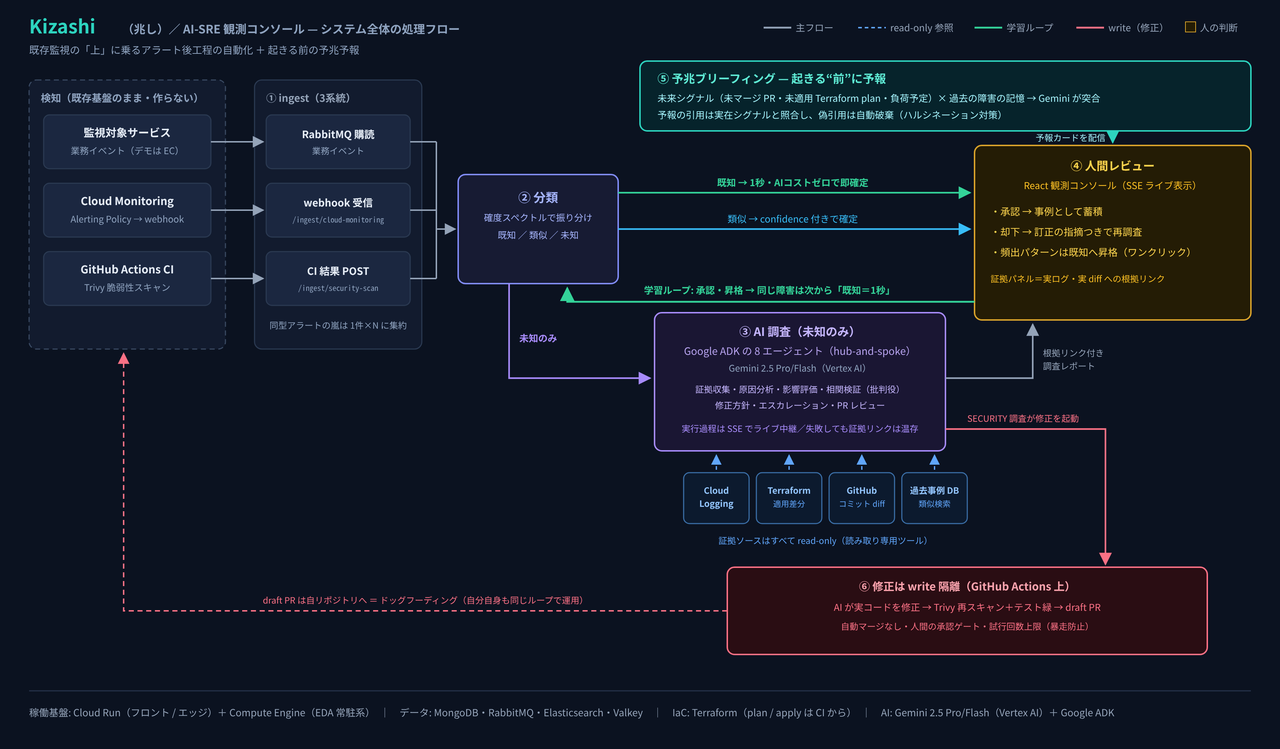
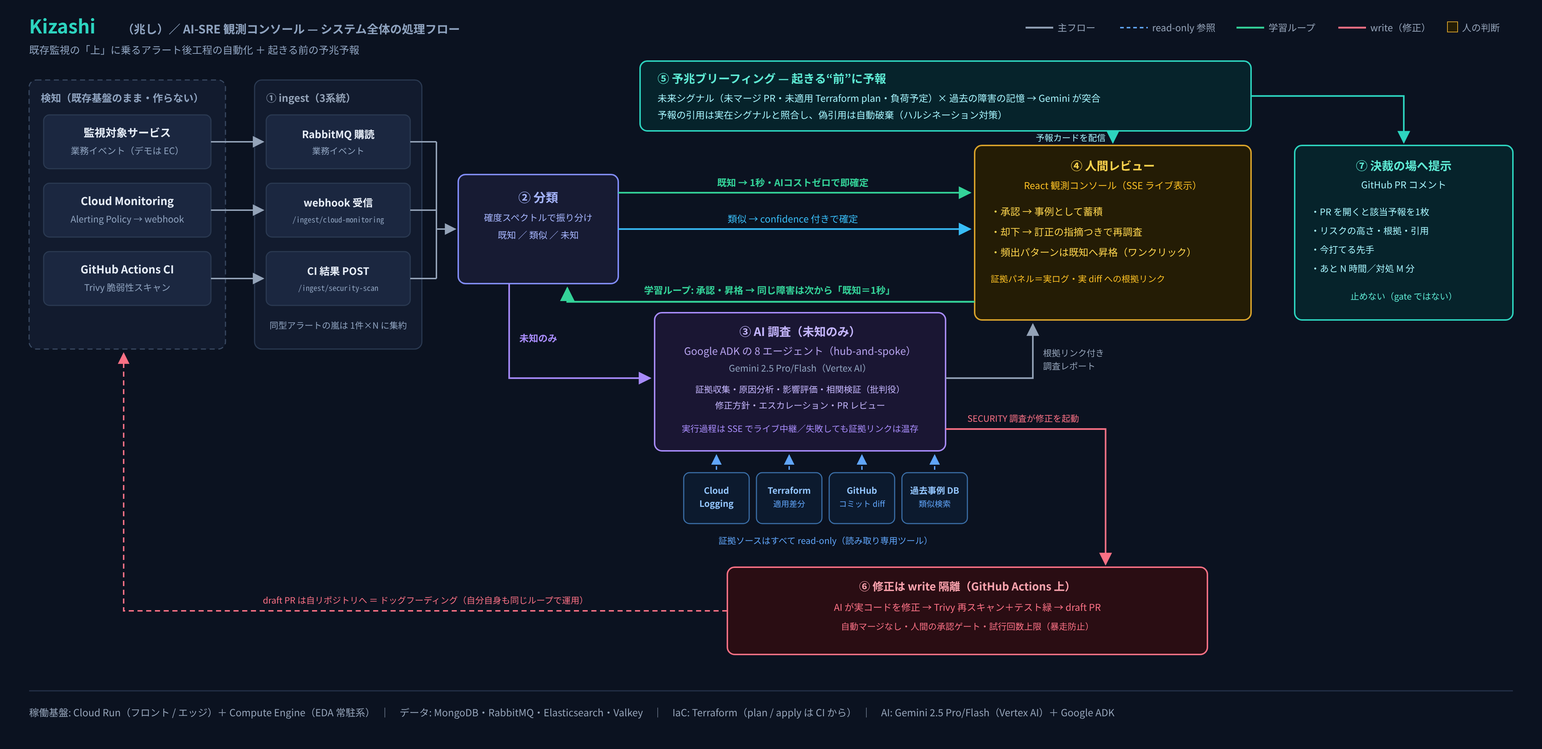
doc: v1.5/v2 の実装をドキュメントの正へ反映する（E7・ADR-34・測定）
決裁の場への提示（E7）が README にも architecture.md にも無く、
「前例が無ければ LOW〜MEDIUM に留まる」は E6-3 の実測で否定された
ままだった。図（architecture.png / deploy-diagram.png）も E7 を
描いていなかったので、SVG 原本を編集して再レンダリングした。

- architecture.md §10.9 新設（PR コメント・該当判定2本立て・非 gate 規律）
- §10 の level に関する記述を実測（ローカル n=21）へ訂正
- §10.5/§10.6 を ADR-34（決裁の読み順・時間軸・日本語ラベル）へ同期
- §6.5 に ⑤ 自己予報、§6.1 の SA を ×4（AI 修正専用 SA）へ
- §7 に apps/ci/、テスト件数を実測へ（unit 1,298 / 178ファイル）
- §11 に未実装（決裁台帳・提示頻度の上限・先手後の事後検証）を明記
- 図に ⑦ 決裁の場へ提示を追加（キャンバスを広げ既存要素は不動）
- ADR 索引のリンク切れ3件（ADR-14 / ADR-26 / ADR-34）を修正

diff --git a/docs/architecture.md b/docs/architecture.md
@@ -1,4 +1,4 @@
-# Kizashi（兆し）アーキテクチャ（コード準拠・2026-07-11 時点）
+# Kizashi（兆し）アーキテクチャ（コード準拠・2026-08-17 時点）
 
 > **本書はコードを正とした現状スナップショット**。設計の経緯・理由は [docs/steps/](steps/)（step 系設計書）と [docs/decisions/](decisions/) を参照。ここに書かれていることはすべて実装済み（未実装は明示）。
 
@@ -41,9 +41,11 @@ flowchart LR
   end
 
   UI["React 観測コンソール<br/>SSE リアルタイム・証拠パネル・承認"]
+  PRC["GitHub PR コメント（§10.9）<br/>決裁の場へ材料を届ける<br/>（止めない・gate ではない）"]
   REM["リメディエーション(write隔離)<br/>GitHub Actions 上で AI が実修正<br/>→テストゲート→draft PR(人間承認)"]
 
   FSIG --> FC --> UI
+  FC --> PRC
   SI -.記憶（MEMORY）.-> FC
   EC -->|DomainEvent| SUB
   CM -->|webhook| ICM
@@ -159,7 +161,7 @@ flowchart TD
 - 既知/未知でルートが変わる（既知は重い調査モジュールを通さない）。出口は自責→修正起案 / 他責→運用エスカレーションに分岐。
 - 失敗時も空にしない: runner 例外・パース不能の fallback レポートに**収集済み証拠リンクを温存**。パース不能時は rawSnippet をログに残し真因を追跡。
 - **空応答への構造的防御（finalizer 分離）**: gemini-2.5 系は思考トークンも `maxOutputTokens` を消費するため、証拠が競合する高推論シナリオ（例: 症状=メモリ枯渇 × Terraform 差分=接続上限縮小）では最終 JSON 合成ターンの思考が予算を食い切り **finishReason=MAX_TOKENS・0文字**になる故障モードがある（思考予算キャップは努力目標であり硬い壁ではない）。**恒久策として「統括」と「JSON 化」を別ターンに分離**した——エージェントループ終了後に、**ツールなし・思考予算0・`responseSchema`（制約付きデコード）強制の単発呼び出し**を1回だけ直列で足し、セッションで回収したサブエージェント出力群を JSON へ清書させる（`GeminiInvestigationFinalizer`）。ツールを持たないので `responseSchema` の併用制約に当たらず、思考が予算を取らないので空応答の機序自体が成立しない。**エージェント数は増えない**（グラフ外の直列ステップ・8体のまま）。清書がパースを通らなければコーディネーターの下書きへ黙って戻す（`finalizeInvestigationOutput`）ので分離前が下限。
-- **空応答への縮退リトライ（後段の受け皿）**: 上の finalizer は前段の防御であって置き換えではないため、縮退リトライは残す。1回目が空/パース不能/例外のとき、**思考予算だけ落とした同一グラフで1回だけ再実行**してから fallback に落とす（思考↓＝最終 JSON 用トークン保証↑と失敗機序に整合・sub-agent の予算は不変なので分析の質は保たれる・再実行は `ai_investigation_retrying` ログで観測可能・上限1回で prefetch(1) の占有を有界に保つ）。清書役自体が落ちた場合（Vertex 側の瞬断・タイムアウト）と、ADK 調査そのものが例外で死ぬ経路をここが拾う。決定の履歴は [ADR-26](decisions/ADR.md#adr-26-空応答fallbackは思考予算を落とした縮退リトライ1回で防御)。
+- **空応答への縮退リトライ（後段の受け皿）**: 上の finalizer は前段の防御であって置き換えではないため、縮退リトライは残す。1回目が空/パース不能/例外のとき、**思考予算だけ落とした同一グラフで1回だけ再実行**してから fallback に落とす（思考↓＝最終 JSON 用トークン保証↑と失敗機序に整合・sub-agent の予算は不変なので分析の質は保たれる・再実行は `ai_investigation_retrying` ログで観測可能・上限1回で prefetch(1) の占有を有界に保つ）。清書役自体が落ちた場合（Vertex 側の瞬断・タイムアウト）と、ADK 調査そのものが例外で死ぬ経路をここが拾う。決定の履歴は [ADR-26](decisions/ADR.md#adr-26-空応答-fallback-は思考予算を落とした縮退リトライ1回で防御)。
 - **fallback からの復帰導線（E3）**: fallback は行き止まりにしない。ドロワー/詳細ページの警告バナー直下に「再調査を実行」（既存 `POST /alerts/:id/reinvestigate` へ定型 operatorNote を添えてワンクリック結線・`FallbackRecoveryBanner`）、温存された証拠リンクは「収集済みの証拠リンク」として要約射影でも表示、一覧カードの「AI推定: 」空文字は「調査失敗・再調査可」の定型文に写像。
 - **働きの明細（G1）**: 調査完了時に UseCase が実測メトリクス（`InvestigationMetrics`＝elapsedMs＋証拠件数内訳: ログ/メトリクス/Terraform差分/コミット/類似事例）を `InvestigationReport.metrics`（optional・後方互換）へ deterministic に添付（ADK/単一Gemini 両経路で同形・LLM 出力ではない）。UI はレポート冒頭に「**92秒**で Cloud Logging・GitHub・類似事例DB を横断し、**証拠62件**を収集して原因を推定」の実測1行（要約射影）を出し、既知一致には「既知パターン一致＝**1秒未満・AI コストゼロ**で確定」の経済性対比を添える。表示は記録済みの事実のみ（「人間なら◯分」等の換算はしない）。
 - **報告書の視覚構造（E8・詳細ページ full 射影）**: 同じ実測メトリクスを**証拠フローダイアグラム**（流入源→AI 調査→結論の収束図・`EvidenceFlowDiagram`＋`evidenceFlowModel` 純関数）として図示し、G1 の実測1行は図ヘッダに吸収（同じ数字を二度出さない・描けない条件では1行へ劣化）。結論ノードに確信度ゲージ＋キャリブレーション注記を合流。冒頭は結論ファースト（AI推定パターン直下に自責/他責バッジ＋障害規模1行・推奨アクションを調査ステップより先に）。調査ステップは縦タイムライン（生エージェント名は台帳で人間語化・時刻は記録が無いため出さない＝順序のみ）。生ログ引用（算定根拠/添付証拠/判定根拠）は既定折りたたみ「n件」＋展開でソース種別レーン（観測データ/変更履歴/過去事例・`groupCitations`）。すべて記録済み実データからの表示射影＝backend 変更ゼロ。
@@ -254,7 +256,7 @@ flowchart LR
 | ------------ | ------------------------------------------------------------------------------------------------ | ----------------------------------------------------------------------------------- |
 | 機密         | **Secret Manager**（箱のみ tf 管理・平文 version は `gcloud` で別投入＝tf state 非搭載）         | 各コンテナへ環境注入。LLM コンテキストに載らない＝注入成功時も鍵は漏れない（§5.5）  |
 | CI 認証      | **Workload Identity Federation**（pool + provider・鍵レス）                                      | GitHub Actions → GCP を SA キー配布ゼロで認証。長期鍵の漏洩面を排除                 |
-| 権限         | **役割別サービスアカウント ×3**（CI デプロイ用 / Cloud Run 実行用 / GCE 実行用・最小権限）       | 実行系と CI 系を分離。プロセス誤動作時の横移動を限定（§5.5 最小権限・サービス分離） |
+| 権限         | **役割別サービスアカウント ×4**（CI デプロイ用 / **CI AI 修正用**（`roles/aiplatform.user` のみ）/ Cloud Run 実行用 / GCE 実行用・最小権限） | 実行系と CI 系を分離。さらに CI の中でもデプロイ権限と AI 修正ジョブを分ける＝**LLM が書いたコードを走らせるランナーにデプロイできる資格情報を置かない**（§5・§5.5） |
 | 状態管理     | **GCS**（tfstate 用＝partial backend config で tf 外に用意・deploy 資材用＝tf 管理）／state lock | plan/apply の tfstate 奪い合いを CI の `concurrency` で直列化（§6.5②）              |
 | 配信         | **Artifact Registry**（apps リポジトリに ec-backend / backoffice-backend イメージ）              | image build & push の格納先（§6.5①）                                                |
 | ネットワーク | VPC / subnet / **Serverless VPC Access Connector** / 静的 IP / firewall                          | Cloud Run（サーバレス）→ GCE 常駐系（RabbitMQ/Mongo 等）への疎通                    |
@@ -279,6 +281,7 @@ flowchart TB
     TF["terraform.yml<br/>plan(PR) / apply(main・承認ゲート)<br/>state lock 直列化済み"]
     TRIVY["app.yml: Trivy fs scan<br/>HIGH/CRITICAL 抽出→整形"]
     REM["ai-remediation.yml<br/>AI が実修正→テストゲート→draft PR"]
+    FPC["forecast-pr-comment.yml<br/>予報を PR コメントで提示<br/>（参照のみ・常に exit 0）"]
   end
 
   subgraph prod["本番（Cloud Run + GCE）＝ 監視エージェント稼働"]
@@ -291,6 +294,8 @@ flowchart TB
   SRC --> TRIVY -->|"POST /ingest/security-scan<br/>(実 ingest・シナリオ4 の実経路)"| AGENT
   AGENT -->|"SECURITY 調査 → repository_dispatch"| REM
   REM -->|"draft PR（人間承認ゲート）"| SRC
+  AGENT -->|"GET /forecast（参照）"| FPC
+  FPC -->|"自リポジトリの PR へコメント<br/>（材料のみ・止めない）"| SRC
   AGENT -.監視.-> ECPROD
 ```
 
@@ -298,8 +303,9 @@ flowchart TB
 - **② 自己 IaC**（`terraform.yml`）: `plan` は PR・`apply` は `main`（`environment: prod` 承認ゲート）。PR とマージの plan/apply が同一 tfstate ロックを奪い合うレースを `concurrency` で直列化済み（1回目失敗→rerun 成功の既知事象を解消）。
 - **③ 自己検知（ループの閉じ）**（`app.yml` の `security-scan` job）: Trivy が**自リポジトリの依存**を fs スキャン→HIGH/CRITICAL を代表 CVE に昇格し全件同梱→本番 `/ingest/security-scan` に POST。**検知入力が外部イベントではなく自分自身の CI から来る**＝ドッグフーディングの核。これが[シナリオ4](#9-デモシナリオ5ボタンリアルさバッジ付き)の実経路。
 - **④ 自己修復**（`ai-remediation.yml`）: SECURITY 調査が `repository_dispatch` を発火→ランナー上で AI が実コードを修正→Trivy 再スキャン＋テスト緑になるまで自己修正（`REMEDIATION_MAX_ATTEMPTS` で打ち切り＝課金暴走の安全弁）→**自リポジトリに draft PR**（自動マージなし・人間承認）。マージされれば ① に戻り再デプロイ＝**完全な自己参照 DevOps ループ**。
+- **⑤ 自己予報（起きる前側のループ）**（`forecast-pr-comment.yml`）: 自リポジトリの PR が開くたびに本番 edge の `GET /forecast` を引き、その PR に該当する予報があればコメントを1枚出す＝**予報を自分自身のリリース判断の場に置く**。①〜④が「起きた後」の自己運用ループなのに対し、⑤は「起きる前」の材料が同じループへ入る口（詳細と非 gate 規律は §10.9）。
 
-> **正直さの境界**: ①②③④すべて実行実績のある実ワークフロー（④は 2026-08-05 に本番で実測＝PR #123・9分33秒。§5 参照）。ただしデモ卓のシナリオ4は「実 CI の非同期完了を待たずに」同じ ingest 経路へ合成入力を流す（入口のみ合成・以降は実経路・UI に amber バッジ）。本物の CI 発火→PR は `main` マージ後に非同期で起き、レポートに実リンクは即時には出せない割り切り（[決定記録](decisions/)・デモ用途の設計判断）。
+> **正直さの境界**: ①②③④すべて実行実績のある実ワークフロー（④は 2026-08-05 に本番で実測＝PR #123・9分33秒。§5 参照）。⑤は**本番予報と実 PR（#55）に対して出力を実測済み**だが、その実測は純関数へ流した確認であって、ワークフロー実行としての実績は本書では主張しない（§10.9 の注記）。ただしデモ卓のシナリオ4は「実 CI の非同期完了を待たずに」同じ ingest 経路へ合成入力を流す（入口のみ合成・以降は実経路・UI に amber バッジ）。本物の CI 発火→PR は `main` マージ後に非同期で起き、レポートに実リンクは即時には出せない割り切り（[決定記録](decisions/)・デモ用途の設計判断）。
 
 ## 7. コード構成（DDD + Clean Architecture + CQRS + EDA）
 
@@ -315,11 +321,13 @@ src/
 │   └── Shared/                   # EventBus(RabbitMQ)・CommandBus・criteria 等
 └── apps/
     ├── ec/backend/
-    └── backoffice/{backend,frontend}/   # frontend は features/{alerts,analytics,demo,forecast}
+    ├── backoffice/{backend,frontend}/   # frontend は features/{alerts,analytics,demo,forecast}
+    └── ci/forecast-pr-comment/          # CI 合成ルート（§10.9・root tsconfig で型検査対象）
 ```
 
 - ポート実装は `...Adapter`、ドメインサービスは `...DomainService`。driven ポートと wire DTO は infrastructure 配下。ワイヤ型は contracts に単一ソース化。
-- テスト: Vitest（BDD）unit 1297件・166ファイル（backend/shared＋frontend〔jsdom/RTL は別プロジェクト〕）。docker 必須の結合（`*.int.test.ts`）は `make test-integration` の別ラン。分岐の厚い ACL は fake 注入の UT、薄いリポジトリは E2E。E2E は `e2e/`（Vitest・HTTP API レベル・docker compose 実スタック＋stub AI・22件/7ファイル）: 既知1秒/未知調査/フィードバック一生（承認→昇格→再発既知→却下→再調査）/類似学習一周/予兆引用検証/デモ操作卓/EC 注文。
+- `apps/ci/` は **CI から起動するグルーの置き場**（判定と本文は domain の純関数、取得と出力だけここ）。root `tsconfig.json` の include に入れてあり、**CI のグルーが typecheck の外に落ちない**ようにしている。
+- テスト: Vitest（BDD）unit 1,298件・178ファイル（backend/shared＋frontend〔jsdom/RTL は別プロジェクト〕・2026-08-17 実測）。docker 必須の結合（`*.int.test.ts`・11ファイル）は `make test-integration` の別ラン。分岐の厚い ACL は fake 注入の UT、薄いリポジトリは E2E。E2E は `e2e/`（Vitest・HTTP API レベル・docker compose 実スタック＋stub AI・22件/7ファイル）: 既知1秒/未知調査/フィードバック一生（承認→昇格→再発既知→却下→再調査）/類似学習一周/予兆引用検証/デモ操作卓/EC 注文。
 
 ## 8. 主要 API（backoffice）
 
@@ -335,7 +343,7 @@ src/
 | `POST /ingest/remediation-result` | AI リメディ CI の結果 callback                                                                                                                              |
 | `GET /analytics`                  | 承認済みアラート等の集計ビュー（正答率＝判定履歴が母数・引用照合率＝**引用単位**の `citationCoverage`・予報の測定＝**破棄の件数**の `forecastMeasurement`） |
 | `POST /demo/scenario` ほか        | デモ操作卓（`DEMO_ENABLED` 配下）                                                                                                                           |
-| `GET /forecast`                   | 予兆ブリーフィング＝事前生成済みの最新リスク予報（`FORECAST_ENABLED` 配下・Gemini 非呼び出し＝無人閲覧に課金ゼロで耐える）                                  |
+| `GET /forecast`                   | 予兆ブリーフィング＝事前生成済みの最新リスク予報（`FORECAST_ENABLED` 配下・Gemini 非呼び出し＝無人閲覧に課金ゼロで耐える）。**UI だけでなく CI（PR コメント・§10.9）も同じ口を参照する**（読み取り専用・失敗しても CI は落とさない） |
 | `POST /forecast`                  | 予報の生成（`FORECAST_ENABLED` かつ `DEMO_ENABLED` 配下・Gemini 呼び出し・horizon は `FORECAST_HORIZON` 固定）                                              |
 | `DELETE /forecast`                | 予報キャッシュのリセット（`DEMO_ENABLED` 配下・アラート側 `/demo/reset` とは独立＝一覧リセットが予報を巻き込まない）                                        |
 
@@ -359,7 +367,9 @@ src/
 
 ## 10. 予兆ブリーフィング（Forecast・実装済み）
 
-未来シグナル×記憶の**引用付きリスク予報**。**発火条件は未来シグナルが1本以上あることだけ**で、記憶（過去の同型障害）は**発火の関門ではなくレベルの増幅材**＝前例が無くても未来シグナル単独で予報は出る（その場合は原則 LOW〜MEDIUM に留まる／§10 の F5・プロンプト規約）。**F1〜F8・F10〜F12 まで実装済み**。ローカル E2E（`e2e/backoffice/forecast.e2e.test.ts`）が引用検証（偽引用 drop・裏付けゼロ破棄）・MEMORY の実在解決・GET キャッシュ配信を決定論担保。残タスクはコードでなく人間タスク（実 PR ステージングと録画）のみ。
+未来シグナル×記憶の**引用付きリスク予報**。**発火条件は未来シグナルが1本以上あることだけ**で、記憶（過去の同型障害）は**発火の関門ではなくレベルの増幅材**＝前例が無くても未来シグナル単独で予報は出る。**F1〜F8・F10〜F12 実装済み＋ E7（決裁の場への提示・§10.9）**。ローカル E2E（`e2e/backoffice/forecast.e2e.test.ts`）が引用検証（偽引用 drop・裏付けゼロ破棄）・MEMORY の実在解決・GET キャッシュ配信を決定論担保。
+
+> ⚠ **「前例が無ければ弱く出る」は実測で否定された**（2026-08-04・ローカル2群 n=21・実 Gemini）。記憶ゼロの B群でも **9回中9回 HIGH** が出ている。プロンプトの床（「単独シグナルのみで裏付けられるリスクは原則 LOW〜MEDIUM」）が縛るのは**根拠の種類が1つのとき**であって、**前例の有無ではない**——記憶が無くても未来の変更＋負荷予定の2種類が残るため床に当たらない。記憶で変わったのは level の高さではなく**1回あたりの本数**（2.25本 → 1.67本）と MEDIUM 比率（7% → 40%）。数字の出所は `buildForecastMeasurement`（§10.3 F5c）。
 
 ```
 未来シグナル3系統                         記憶
@@ -396,14 +406,14 @@ src/
 
 ### 10.5 UI（F7）
 
-`frontend/features/forecast`＝domain（`ForecastView`/`RiskLevel` 純関数・wire は `ForecastContract` を `@monitoring` alias 直 import）／infrastructure（`forecastApi`＝GET の 404 を body で「機能 off（guard・非JSON）/未生成（JSON）」に判別し可用性を返す＝専用 status API を増やさない）／application（`triggerForecast`）／presentation（`ForecastProvider`＝GET 1回でナビ表示可否＋最新予報を全ページ共有・`ForecastPage`＝リスク level 降順・`RiskCard`＝level バッジ+**根拠 N種類チップ**（引用の kind 数＝決定論値）+reasoning。⚠ **confidence は表示しない**——LLM の自己申告をクランプしただけで診断側のような cap も署名UIも無く、判断材料が level と同じ＝決定論で出せている軸の二重表示だった（[ADR-32](decisions/ADR.md#adr-32-予報に確信度は表示しない較正できない自己申告を決定論で出せている軸に重ねない)。値は wire・履歴・同 level 内の表示順には残す）・**`CitationList`＝引用検証済みシグナルのみの引用チップ（未マージ PR／未適用 plan（実 PR #83）／過去アラートへ実リンク・ハルシネーション否定の可視化）**）。`/forecast` SPA ルート追加（vite proxy / nginx を Accept 出し分けの SPA-aware 側へ移動）・Forecast ナビタブは `FORECAST_ENABLED` off で非表示＋HIGH n件バッジの導線1個。カード描画は `shared/ui/ReferencedEvidenceCard` へ昇格し相関パネル（`RelatedAlertsPanel`）と共有＝「参照 id を実在レコードへ解決して提示する」同型パターンの単一実装。
+`frontend/features/forecast`＝domain（`ForecastView`/`RiskLevel` 純関数・wire は `ForecastContract` を `@monitoring` alias 直 import）／infrastructure（`forecastApi`＝GET の 404 を body で「機能 off（guard・非JSON）/未生成（JSON）」に判別し可用性を返す＝専用 status API を増やさない）／application（`triggerForecast`）／presentation（`ForecastProvider`＝GET 1回でナビ表示可否＋最新予報を全ページ共有・`ForecastPage`＝リスク level 降順（horizon は一覧見出し「今週末のリスク」へ昇格・ページ上部のメタチップは見出しへ畳み、シグナル件数＝母数だけ残す）・`RiskCard`＝**決裁の読み順**（[ADR-34](decisions/ADR.md#adr-34-予報カードは決裁の読み順に並べ替えいつまでに動くかを軸で出す)）で「**何が**（subject 見出し＋level バッジ）→ **いつまでに**（`ForecastTimeline`）→ **何をする**（🛡 先手）→ **なぜ**（`ConvergenceMiniFlow` の収束）→ **詳しく**（AI の推論文・`<details>` で畳む）→ **証拠**（`CitationList`）」。バッジと結論ノードの文言は `riskLevelLabel`（`高リスク` / `中リスク` / `低リスク`）に統一し、ナビの件数バッジまで同じ語彙で揃えた＝**画面に生 enum を出さない**（PR コメント側も同じ写像・§10.9）。推論文中の生の引用 id（`sch-1` 等）は `CitationRefProse` が引用チップへの参照リンクに変換する。`ForecastTimeline` は **いま → 対処を始める期限 → 予測発生窓**の3点を線形軸で描き（`予測発生 − 対処所要`＝期限。対処所要は宣言値なので斜線、実測由来はベタ塗り）、**予測発生時刻は引用された SCHEDULE シグナルから決定論で解決**する（`scheduleWindowOccurrence`・出所を画面に併記・解決できなければ軸ごと出さず `window` の補足行へ縮退）。⚠ **confidence は表示しない**——LLM の自己申告をクランプしただけで診断側のような cap も署名UIも無く、判断材料が level と同じ＝決定論で出せている軸の二重表示だった（[ADR-32](decisions/ADR.md#adr-32-予報に確信度は表示しない較正できない自己申告を決定論で出せている軸に重ねない)。値は wire・履歴・同 level 内の表示順には残す）・**`CitationList`＝引用検証済みシグナルのみの引用チップ（未マージ PR／未適用 plan（実 PR #83）／過去アラートへ実リンク・ハルシネーション否定の可視化）**）。`/forecast` SPA ルート追加（vite proxy / nginx を Accept 出し分けの SPA-aware 側へ移動）・Forecast ナビタブは `FORECAST_ENABLED` off で非表示＋HIGH n件バッジの導線1個。カード描画は `shared/ui/ReferencedEvidenceCard` へ昇格し相関パネル（`RelatedAlertsPanel`）と共有＝「参照 id を実在レコードへ解決して提示する」同型パターンの単一実装。
 
 ### 10.6 フラッグシップ seed と E2E（F8）
 
 - seed 3系統（DB接続枯渇）: `seeds/ForecastPendingPlanSeed.ts`＝バックボーン VM `machine_type` e2-standard-2→e2-small 縮小の未適用 plan（実 PR #83 の terraform plan と同内容・`FORECAST_PENDING_PLAN_PR_URL` 既定=#83 を後付けし「証拠を開く」が実 PR に解決／`DEMO_ENABLED` 配下で `InMemoryPendingInfraPlanStore` へ投入）／`seeds/ForecastScheduleSeed.ts`＝土 20:00 checkout 負荷 x5／`seeds/ResolvedAlertSeed.ts` に過去解決事例2件（`FORECAST_MEMORY_SEED_ALERT_IDS`・`report.subject` を plan の terraform address / schedule の checkout とトークン突合する語彙で明示＝MEMORY 引用が `incident.<実在AlertId>` として `GET /alerts/:id` に解決できる）。
 - **MEMORY は生成時に再 warmUp**（`ForecastRiskUseCase.recallMemorySignals`）＝demo reset の再 seed・直前に承認/解決した事例が backend 再起動なしで記憶に載る。
 - ローカル E2E（`AI_INVESTIGATION_STUB=true`）: `StubLLMClient` が予兆 SYSTEM_INSTRUCTION を判別して固定予報（**意図的な偽引用 ghost-\* 入り**・実在引用は plan-1/sch-1/inc-1 の3系統）を返し、引用検証＝偽引用 drop・裏付けゼロ破棄・MEMORY の実在解決・GET キャッシュ配信を課金なしで決定論検証。
-- UI の見せ方: `RiskCard` は **window（いつ危ないか）を主見出し**にし、引用を種別レーン（変更予定 cyan／負荷予定 amber／過去の記憶 emerald）＋「根拠 n系統」チップで**系統の収束**として見せる（`groupCitationsByKind`・タイムチャートは window が LLM 由来の自由文字列のため不採用）。MEMORY 引用の「当時のアラートを開く」は、一覧 API が RESOLVED を除外するため詳細ページ側で `GET /alerts/:id` へフォールバックして解決（`useAlertDetail` が現役＝共有一覧 state／アーカイブ＝単品 fetch の二源を単一インターフェースに畳む。アーカイブは共有一覧 state へ merge しない＝一覧に混入しない。類似分類の関連アラート導線も同経路）。
+- UI の見せ方: 引用を種別レーン（変更予定 cyan／負荷予定 amber／過去の記憶 emerald）＋「根拠 n系統」チップで**系統の収束**として見せる（`groupCitationsByKind`）。⚠ **かつての2つの決定は [ADR-34](decisions/ADR.md#adr-34-予報カードは決裁の読み順に並べ替えいつまでに動くかを軸で出す) で撤回済み**——「window を主見出し」は軸が日付つきで「いつ」を答えるようになったため見出しは「何が」へ、「タイムチャート不採用」（理由: `window` が LLM 由来の自由文字列）は**読む対象を `risk.window` から引用スケジュールの `when`（我々自身のデータ）に替えたことで根拠が消えた**（`risk.window` は今も時刻として読まない）。MEMORY 引用の「当時のアラートを開く」は、一覧 API が RESOLVED を除外するため詳細ページ側で `GET /alerts/:id` へフォールバックして解決（`useAlertDetail` が現役＝共有一覧 state／アーカイブ＝単品 fetch の二源を単一インターフェースに畳む。アーカイブは共有一覧 state へ merge しない＝一覧に混入しない。類似分類の関連アラート導線も同経路）。
 
 ### 10.7 予防ファースト（F10・F11）
 
@@ -416,6 +426,30 @@ src/
 
 `DELETE /forecast`＝`RiskForecastRepository.clear()`（soft discard・履歴は残す）・`demoGuard` 配下。**アラート側 /demo/reset とは独立**＝一覧のリセットが提出前に温めた予報キャッシュ（無人閲覧の要）を巻き込まない。UI は `ForecastDemoConsole`＝アラート一覧の DEMO CONSOLE と同一視覚言語（fuchsia ピル・realness バッジ・cyan 実行/rose リセット）の右 aside パネルで、**投入シグナル台帳**（実データ＝実 GitHub PR は1つだけ・残りは合成 seed、と本物度を明示）＋「▶ 予報を生成（AI 突合・約1分）」「予報をリセット」を集約。可用性は GET /demo/status 404 判定＝本番ではコンソールごと非表示・予報閲覧は無傷。
 
+### 10.9 決裁の場への提示（E7・PR コメント・実装済み）
+
+予報は**見に行くもの（pull）**だった——`/forecast` を人が開いて初めて材料になる。E7 は「**必ず発生する決裁（リリース可否）の時と場所に、材料のほうから出る**」入口を1つ作る。決定の理由と語彙の制約は [ADR-33](decisions/ADR.md#adr-33-予報は-pr-コメントで届けるgate-にはせず該当は引用一致を第一根拠にする)。
+
+```
+PR open/reopen/synchronize（または workflow_dispatch）
+   ↓  .github/workflows/forecast-pr-comment.yml
+src/apps/ci/forecast-pr-comment/main.ts  ── GET /forecast（本番 edge・参照のみ）
+   ↓  取得と出力だけ（GitHub への書き込み権を持たない）
+Forecast/domain/pullRequestForecastComment.ts（純関数・判定と本文）
+   ↓  該当があるときだけ
+gh がコメント1枚を投稿／既存コメントを更新（目印 <!-- kizashi-forecast:pr-comment -->）
+```
+
+- **止めない**（最重要の規律）: `exit code` で落とす経路も必須チェック化も入れない。edge 停止・予報未生成・JSON 破損・時刻が解決できない——**すべて warning 止まりで常に exit 0**、投稿ステップも `continue-on-error`（fork PR では `GITHUB_TOKEN` が read-only）。形式的な外部承認プロセスが変更失敗率を下げる証拠は無い（DORA / 2019 State of DevOps）ので、**既にあるレビューと自動チェックに材料を1つ届ける**に徹する。
+- **該当の判定は2本立て**（順序に意味がある）: **(1) 引用一致**＝その PR を指すシグナル（`source === github.pr#N`／`PullRequestSignalSource` の規約）が `risk.citations` に居る（**強**・引用検証を通った結果なので語の重なりより強い）→ **(2) subject のトークン照合**（弱）。**level より先に引用一致を見る**（この PR を根拠に出た予報のほうが、この PR の決裁に効く）。
+- **本文に載るもの**（材料は予報カードと同じ・新しい表現を発明しない）: level（`高リスク` 等の日本語ラベル＝画面と同一語彙）・根拠 N種類（**2種類以上のときだけ**）・時間窓・**なぜこの PR に出ているのかの1行**（引用一致か突合キー一致かを明示＝読み手が検算できる）・推論の引用・**有効リードタイム**（`予測発生 − 発行 − 対処所要`／予測発生は引用スケジュールから解決・**人間の入力はゼロ**・解決できなければ推定せず「算出していない」と書く）・🛡 今打てる先手・実在照合済みの引用リスト。⚠ **確信度%は載せない**（[ADR-32](decisions/ADR.md#adr-32-予報に確信度は表示しない較正できない自己申告を決定論で出せている軸に重ねない)）。
+- **フッタは毎回**: 「この予報はリリースを止めません」＋「**決めた記録（acted / deferred / rejected）を残す台帳はまだありません（ロードマップ）**」＋予報 ID / 生成時刻 / 対象期間 ＋「シグナル N 件を突合して、リスク M 件に絞り込み」＋引用検証の会計（E6-1 の破棄件数・**破棄ゼロでも書く**／検証カウンタを持たない予報では行ごと出さない＝「破棄0」と「測っていない」を畳まない）。
+- **出さない条件**: 該当が無い／`isFallback`（答えられなかった予報を材料として出さない）。**毎 PR に出すとゴム印になる**ため沈黙を選ぶが、**出さなかった回もジョブサマリに理由を必ず書く**（「該当が無かった」と「edge に繋がらなかった」を同じ沈黙に畳まない）。同じ PR にコメントは積まず、目印を含む既存コメントを更新する。
+- **実測（2026-08-04）**: 本番予報（生成 08-04 15:13 JST）を実 PR #55 に対して評価すると、**高リスク・根拠3種類・引用5件（うち PR#55 自身）・先手あり・有効リードタイム 100時間16分**（発行 → 引用スケジュール「土 20:00-23:00」＝08-08 20:00 JST − 対処30分〈宣言値〉）。⚠ これは `GET /forecast` の実データを同じ純関数へ流した確認であり、**ワークフロー実行としての実績はここでは主張しない**。
+- **ここで作らないもの**: 決裁台帳（`decision` の記録）と提示頻度の上限。E7 は**入口だけ**＝「提示は実装済み・記録はロードマップ」と正確に言える状態を保つ（§11）。
+
 ## 11. 未実装（設計のみ）
 
+- **決裁台帳（`decision` の記録）**: 提示（§10.9）は実装済みだが、**提示された材料に対して人が何を選んだか**（acted / deferred / rejected）を予報側で記録する台帳は無い。アラート側の判定履歴（`Alert.reviewHistory`・[ADR-29](decisions/ADR.md#adr-29-判定は上書きの状態と追記の事実に分ける正答率の母数は履歴から数える)）は既に追記型で持っているので、器の形はそこに揃える。**提示頻度の上限**（アラート疲れ対策）も台帳と同時に設計する——上限が無い `deferred` 台帳は「決裁の証跡」ではなく「無視の証跡」になるため。PR コメントのフッタで毎回この不在を明示している。
+- **先手を打った後の事後検証**: 予報の「的中」は二値で定義できない（予防のパラドクス）が、飽和系のクラスは**先手の後に前兆（旧閾値を超える負荷）が来たか**を1件ずつ実測できる。標本（先手を打った予報の実データ）が要るため未着手。
 - **イベントソーシング基盤（stretchⅢ）**: ハッカソン後。将来的には検出層から出力されるイベントの単一入口（Event Gateway）として集約し、すべての検知ソースを同一イベントモデルへ正規化する構想。

diff --git a/README.en.md b/README.en.md
@@ -11,19 +11,22 @@ Built for the Findy **DevOps × AI Agent Hackathon 2026**.
 | Measured (demo environment)  |                                                                                                              |
 | ---------------------------- | ------------------------------------------------------------------------------------------------------------ |
 | Forecast                     | Cross-checks 3 kinds of future signals × past incident memory — **only citation-verified evidence is shown** |
+| Where forecasts land         | The console **and the matching pull request** — material delivered to the release decision, **never blocking it** |
 | AI investigation (unknown)   | **8 ADK agents** traverse evidence read-only; report with evidence links in ~2–3 minutes                     |
 | Known-failure classification | **Under 1 second, zero AI cost** (deterministic)                                                             |
-| Tests                        | **1,174 unit tests** + 22 E2E tests (learning loop & citation verification covered deterministically)        |
+| Measurement (with denominators) | Citation resolution **9/9** (10 production alerts); forecast citations dropped as fake **0/155** (21 local runs; 31 production runs also dropped none) — **too small an n to claim a rate** |
+| Tests                        | **1,298 unit tests** + 22 E2E tests (learning loop & citation verification covered deterministically)        |
 
 ## What makes it different
 
-- **It forecasts risks with evidence, before anything breaks (Forecast Briefing — implemented).** Gemini cross-checks "future signals" (unmerged PRs, unapplied Terraform plans, load schedules) against memories of past incidents and produces forecasts like "Sat 20:00 — DB connection exhaustion, HIGH." Citations are machine-verified against real signals; **fake citations are dropped before display**. Each risk carries a one-line "🛡 preventive move you can make now" (executed by humans; the system stays write-zero).
+- **It forecasts risks with evidence, before anything breaks (Forecast Briefing — implemented).** Gemini cross-checks "future signals" (unmerged PRs, unapplied Terraform plans, load schedules) against memories of past incidents and produces forecasts like "Sat 20:00 — DB connection exhaustion, high risk." Citations are machine-verified against real signals; **fake citations are dropped before display**. Each risk carries a one-line "🛡 preventive move you can make now" (executed by humans; the system stays write-zero). Cards are ordered for the decision, not the narrative — *what → by when → what to do → why → evidence* — with a timeline that shows the **deadline to start remediating**, not just the risk window.
+- **Forecasts are delivered to the decision point (implemented).** When a pull request opens, the matching forecast is posted as a **PR comment**: risk level, how many kinds of evidence converge, citation-verified links, the preventive move, and the effective lead time ("~N hours left; remediation takes ~30 min — a declared value"). **It is deliberately not a gate**: nothing exits non-zero, no required check, and no comment at all when nothing matches. The predicted-occurrence time is resolved deterministically from the cited schedule signal — **no human types a date anywhere**. (See architecture.md §10.9 — Japanese.)
 - **Detection stays with your existing stack** (Cloud Monitoring etc. remain the authority). Once an alert fires, **8 ADK agents** (hub-and-spoke) autonomously traverse Cloud Logging, applied Terraform diffs, real GitHub commit diffs, and past similar incidents — **strictly read-only** — and produce a root-cause estimate with evidence links. Because it doesn't replace your monitoring SaaS, adoption is additive.
 - **Known = 1 second; AI only for the unknown.** A confidence spectrum — exact match (deterministic) → similar ("quasi-known" with confidence) → unknown (AI investigation) — keeps the expensive investigation path reserved for genuinely new failures.
 - **Anti-hallucination: correlations must be backed by evidence.** The AI may link two alerts causally only when they share concrete evidence (same commit / Terraform diff / metric spike, with citations). Correlation citations are machine-resolved against collected evidence ids, and a dedicated critic agent (CorrelationVerifier) validates causal direction before anything is finalized — avoiding both "missing a real link" and "fabricating a plausible one."
 - **Learning loop.** Human approvals feed the similar-incident corpus; recurring patterns get promoted to known patterns → next occurrence classifies in 1 second with no AI call.
 - **Structural read/write separation.** Investigation is read-only; remediation is write-isolated outside the API server. The default (`advisory`) opens a **draft PR** carrying a remediation plan; `dispatch` has an AI fix real code on GitHub Actions, pass a Trivy re-scan and green tests, then open the draft PR — both with no auto-merge and a human approval gate. (**The dispatch route is measured in production**: UI button → `repository_dispatch` → runner-side fix passing the test gate → draft PR → callback confirming the record, end to end in 9m33s — see architecture.md §5.)
-- **Dogfooding (self-operating loop).** This repository's own CI (Trivy) feeds its findings into the production `/ingest/security-scan` endpoint; a SECURITY investigation opens a draft PR against this very repository — **the monitored EC app and the monitoring agent itself live inside the same DevOps loop** (see [architecture.md §6.5](docs/architecture.md) — Japanese).
+- **Dogfooding (self-operating loop).** This repository's own CI (Trivy) feeds its findings into the production `/ingest/security-scan` endpoint; a SECURITY investigation opens a draft PR against this very repository, and this repository's own pull requests receive the agent's forecasts as comments — **the monitored EC app and the monitoring agent itself live inside the same DevOps loop, before and after incidents alike** (see [architecture.md §6.5](docs/architecture.md) — Japanese).
 - **Honest synthesis + real evidence.** Synthetic demo inputs are explicitly badged (amber) in the UI; only the entry point is synthetic — transform → classify → AI investigation run the real pipeline. No fake buttons without endpoints. External links attached to evidence are **real and deterministically derived**: CVE → real NVD pages (only canonical CVE ids resolve — no 404s), Terraform evidence → the actual change PR.
 
 ## System Configuration Diagram
@@ -40,6 +43,7 @@ flowchart LR
     SCH["Load schedules"]
   end
   FC["Forecast Briefing<br/>Gemini cross-check + citation verification<br/>(fake citations auto-dropped, 🛡 preventive moves)"]
+  PRC["GitHub PR comment<br/>material at the release decision (never blocking)"]
   subgraph detect["Detection (outside the boundary)"]
     EC["EC backend<br/>orders / inventory / payments"]
     CM["Cloud Monitoring"]
@@ -55,6 +59,7 @@ flowchart LR
   REM["AI remediation → draft PR<br/>(test gate, human approval)"]
 
   PR & PLAN & SCH --> FC --> UI
+  FC --> PRC
   EC & CM & CI --> ING --> CLS
   CLS -->|unknown only| ADK --> UI
   CLS --> UI --> FB -->|becomes known| CLS
@@ -67,7 +72,7 @@ Full details (in Japanese, code-accurate): **[docs/architecture.md](docs/archite
 
 - **Detection is outside the boundary.** Cloud Monitoring, the EC app's domain events, and CI security scans are the detection authorities. Three peer-ingest routes (RabbitMQ subscription, `/ingest/cloud-monitoring` webhook, `/ingest/security-scan`) merge into one pipeline. Duplicate storms collapse via `dedupKey` + occurrence count.
 - **Classify → investigate → learn.** Exact known-pattern match resolves in ~1s with no AI. Unknown alerts trigger an asynchronous investigation: 8 in-process ADK agents (coordinator, evidence collector, root-cause analyst, impact triage, correlation verifier/critic, remediation planner, runbook escalation, remediation reviewer) with read-only tools. Results stream to the UI over SSE, including live `investigation-progress` events. Human approval indexes the case into the similar-incident corpus; promotion crystallizes it into a known pattern.
-- **Forecast Briefing.** Future signals (unmerged PRs / unapplied Terraform plans / load schedules) × memories of resolved alerts → Gemini produces cited risk forecasts. Citations that don't resolve to real signal ids are dropped; risks with zero backing are discarded entirely. `GET /forecast` serves a pre-generated cache (zero AI cost for unattended viewing).
+- **Forecast Briefing.** Future signals (unmerged PRs / unapplied Terraform plans / load schedules) × memories of resolved alerts → Gemini produces cited risk forecasts. Citations that don't resolve to real signal ids are dropped; risks with zero backing are discarded entirely. `GET /forecast` serves a pre-generated cache (zero AI cost for unattended viewing) and is read by both the UI and CI. Every generated forecast is **appended** to MongoDB (`risk_forecasts`; the demo reset is a soft discard, so the measurement sample survives), which is what makes the forecast side measurable: what is counted is not the surviving citations (100% by construction) but the **discarded** ones, reported as counts rather than rates.
 - **Prompt-injection threat model (deliberate design decision).** No dedicated input-boundary guardrail (Model Armor / Bedrock Guardrails equivalent) yet; instead the blast radius is bounded architecturally: read-only investigation tools, write-isolated remediation behind a human-approved draft PR, secrets delivered via Secret Manager (never in LLM context), least-privilege service separation, JSON-schema-constrained outputs with citation verification. The limitation is stated honestly and an input-layer guard is recorded as a future extension (architecture.md §5.5).
 - **Deployment.** Cloud Run (frontend / public edge) + Compute Engine (EDA-resident backends, RabbitMQ, MongoDB, Elasticsearch, Valkey) + Vertex AI (Gemini 2.5 Pro/Flash). IaC is Terraform, applied from CI via Workload Identity Federation with an approval gate.
 - **Code layout.** DDD + Clean Architecture + CQRS + EDA. Ports are swappable by DI (single-Gemini adapter ⇄ ADK multi-agent adapter; deterministic stub for tests).
@@ -90,7 +95,7 @@ The architecture diagrams show **data causality**; concerns that apply uniformly
 | ------------------ | -------------------------------------------------------------------------------------------------------- |
 | Secrets            | **Secret Manager** (tf manages the secret shells only; plaintext versions injected out-of-band → never in tfstate, never in LLM context) |
 | CI auth            | **Workload Identity Federation** (keyless — no SA keys distributed to GitHub Actions)                     |
-| Least privilege    | **3 role-scoped service accounts** (CI-deploy / Cloud Run runtime / GCE runtime) → bounded lateral movement |
+| Least privilege    | **4 role-scoped service accounts** (CI-deploy / **CI AI-remediation, `roles/aiplatform.user` only** / Cloud Run runtime / GCE runtime) → bounded lateral movement; the runner that executes LLM-written code holds no deploy credentials |
 | State / artifacts  | **GCS** (tfstate bucket provisioned outside tf via partial backend config; deploy-artifact bucket tf-managed) with state-lock serialization; **Artifact Registry** (apps image repo) |
 | Networking         | VPC / subnet / **Serverless VPC Access connector** / static IP / firewall (Cloud Run → GCE-resident RabbitMQ/Mongo/ES/Valkey) |
 | Write safety       | **Draft-PR human-approval gate** for AI remediation (no auto-merge)                                        |

diff --git a/README.md b/README.md
@@ -11,19 +11,22 @@ Findy **DevOps × AI Agent Hackathon 2026** 出展作品。
 | 実測（デモ環境）   |                                                                                           |
 | ------------------ | ----------------------------------------------------------------------------------------- |
 | 予報               | 未来シグナル3系統を過去の記憶と突合（記憶は確度の増幅材）・**引用は実在照合済みのみ表示** |
+| 予報の届け先       | 画面に加え、**該当する PR のコメント**へ（リリース判断の場に材料を置く・**止めない**）    |
 | 未知障害の AI 調査 | **ADK 8エージェント**が read-only 横断・約2〜3分で根拠リンク付きレポート                  |
 | 既知障害の判定     | **1秒未満・AI コストゼロ**（決定論）                                                      |
-| テスト             | ユニット **1297件** ＋ E2E 22件（学習ループ・引用検証を決定論担保）                       |
+| 測定（母数つき）   | 引用照合率 **9/9**（本番 Alert 10件）・予報の偽引用破棄 **0/155**（ローカル21回。本番31回でも破棄0）＝**n が小さいので率としては主張しない** |
+| テスト             | ユニット **1,298件** ＋ E2E 22件（学習ループ・引用検証を決定論担保）                      |
 
 ## 何が違うか
 
-- **起きる前に、根拠付きで予報する（予兆ブリーフィング・実装済み）**。未マージ PR・未適用 Terraform plan・負荷スケジュールという「未来シグナル」を過去の障害の記憶と Gemini が突合し、「土 20:00、DB 接続枯渇 HIGH」のように予報（**過去の同型障害は確度を上げる材料で、前例が無くても未来シグナル単独で予報は出る＝その場合は LOW〜MEDIUM**）。引用は実在シグナルと機械照合し**偽の引用は表示前に自動破棄**。各リスクには「🛡 今打てる先手」を1行提示（実行主体は人間・write ゼロ）。
+- **起きる前に、根拠付きで予報する（予兆ブリーフィング・実装済み）**。未マージ PR・未適用 Terraform plan・負荷スケジュールという「未来シグナル」を過去の障害の記憶と Gemini が突合し、「土 20:00、DB 接続枯渇 高リスク」のように予報（**過去の同型障害は確度を上げる材料であって発火の関門ではない＝前例が無くても未来シグナル単独で予報は出る**。⚠ 記憶が無いと弱く出る、ではない——ローカル実測 n=21 で記憶ゼロでも9回中9回が最上位（高リスク）。変わるのは段の高さではなく**1回あたりの本数**〈2.25→1.67本〉）。引用は実在シグナルと機械照合し**偽の引用は表示前に自動破棄**。各リスクには「🛡 今打てる先手」を1行提示（実行主体は人間・write ゼロ）。カードは**決裁の読み順**（何が → いつまでに → 何をする → なぜ → 証拠）で、「対処を始める期限」を時間軸で出す。
+- **予報を、決裁の場に置く（実装済み）**。PR が開くと該当する予報が **PR コメント**として出る——level・根拠 N種類・実在照合済みの引用・今打てる先手・「あと N 時間／対処は約30分（宣言値）」の有効リードタイム付き。**ただし gate にはしない**（止める実装を入れない・該当が無ければ黙る・失敗しても CI は落とさない）。予測発生時刻は引用されたスケジュールから決定論で解決＝**人間が日時を入力する箇所はゼロ**。→ [architecture.md §10.9](docs/architecture.md)
 - **検知は既存基盤に任せ、その上に乗る**（Cloud Monitoring 等の上流が検知の権威）。発火済みアラートを受け、**ADK 8エージェント**（hub-and-spoke）が Cloud Logging・Terraform 適用差分・GitHub 実コミット diff・過去類似インシデントを **read-only で自律横断**し、根拠リンク付きで原因を推定する。監視 SaaS を置き換えないため、いまの運用に足すだけで導入できる。
 - **既知は1秒・未知だけ AI**。完全一致（決定論）→ 類似（confidence 付き「準・既知」）→ 未知（AI 調査）の確度スペクトルで分類し、コストの重い調査は未知のみ起動。
 - **ハルシネーション対策＝相関は証拠で裏づける**。AI が別アラートとの因果を張るときは、共有する具体的証拠（同一の commit/terraform 差分・メトリクス急増・引用）がある場合のみ関連づけ、時間が近いだけの"それっぽい因果"は張らせない。他責（外部起因・例: 決済タイムアウト）を同時発生の別障害で内部原因へ言い換えない＝「関連を見失う」と「でっち上げる」を**両方**避ける（引用の実在照合で偽を落とす思想を、予兆の引用にも調査の相関にも一貫適用）。機構は二段: 相関の citation を収集済み証拠 id へ**機械照合**して解決しない関連を破棄＋確定前に**批判役エージェント（CorrelationVerifier）**が因果の向きの妥当性を検証（修正PRを批判役がレビューするのと同じ「生産者→批判役」構造）。
 - **学習ループ**。人間の正解フィードバックが類似分類の母集団になり、頻出は既知パターンへ昇格 → 次回は1秒で分類（AI 呼び出し不要）。
 - **調査=read / 修正=write の構造分離**。修正だけは API サーバの外に出す。既定（`advisory`）は方針テキストの **draft PR**、`dispatch` では GitHub Actions 上で AI が実コードを修正し Trivy 再スキャン＋テスト緑を通って draft PR——どちらも自動マージなし・人間承認ゲート（**dispatch 経路は本番で実測済み**——UI の起票ボタン → `repository_dispatch` → ランナー上で修正・テストゲート通過 → draft PR → callback で確定まで 9分33秒 → [architecture.md §5](docs/architecture.md)）。
-- **ドッグフーディング（自己運用ループ）**: このリポジトリ自身の CI（Trivy）の検出が本番の `/ingest/security-scan` に流れ、SECURITY 調査が自リポジトリへの draft PR を起こす＝**監視対象の EC も、監視するエージェント自身も、同じ DevOps ループの中にいる**（`.github/workflows/` の実ワークフローが運用系そのもの。図解 → [architecture.md §6.5](docs/architecture.md#65-devops-ドッグフーディング自己運用ループ)）。
+- **ドッグフーディング（自己運用ループ）**: このリポジトリ自身の CI（Trivy）の検出が本番の `/ingest/security-scan` に流れ、SECURITY 調査が自リポジトリへの draft PR を起こす。**起きる前の側も同じループに入っており**、自リポジトリの PR には自分が出した予報がコメントとして届く＝**監視対象の EC も、監視するエージェント自身も、同じ DevOps ループの中にいる**（`.github/workflows/` の実ワークフローが運用系そのもの。図解 → [architecture.md §6.5](docs/architecture.md#65-devops-ドッグフーディング自己運用ループ)）。
 - **正直な合成 ＋ 証拠は本物**: デモの合成入力は UI 上で amber バッジ明示（入口のみ合成・変換→分類→AI 調査は実経路）。エンドポイントの無い偽ボタンは作らない（修正の起票も既定 `REMEDIATION_MODE=demo` では、同じ AI 修正パイプラインが事前起票した**実 draft PR** を提示＝リンク先は本物・何度押しても PR は増やさない。その場でのライブ起票は `REMEDIATION_MODE=dispatch/advisory` で有効）。さらに証拠に添える**外部リンクは実在・決定論導出**——脆弱性は CVE→NVD 実在リンク（正規形の CVE のみ解決＝404 を作らない）、terraform 証拠→変更 PR。config 未設定（本番）は素の証拠のまま＝挙動非侵食。
 
 ## システム構成図
@@ -32,7 +35,7 @@ Findy **DevOps × AI Agent Hackathon 2026** 出展作品。
 
 ## アーキテクチャ
 
-![Kizashi システム全体の処理フロー — 検知（既存基盤）→ ingest 3系統 → 分類（既知1秒/類似/未知）→ AI 調査（ADK 8エージェント・read-only）→ 人間レビュー→学習ループ、起きる前の予兆ブリーフィング、write 隔離の AI 修正 draft PR](docs/assets/architecture.png)
+![Kizashi システム全体の処理フロー — 検知（既存基盤）→ ingest 3系統 → 分類（既知1秒/類似/未知）→ AI 調査（ADK 8エージェント・read-only）→ 人間レビュー→学習ループ、起きる前の予兆ブリーフィングと決裁の場（GitHub PR コメント）への提示、write 隔離の AI 修正 draft PR](docs/assets/architecture.png)
 
 <details>
 <summary>テキスト版（Mermaid）</summary>
@@ -45,6 +48,7 @@ flowchart LR
     SCH["負荷スケジュール"]
   end
   FC["予兆ブリーフィング<br/>Gemini 突合＋引用の実在照合<br/>（偽引用は自動破棄・🛡先手を提示）"]
+  PRC["GitHub PR コメント<br/>決裁の場へ材料を届ける（止めない）"]
   subgraph detect["検知（境界の外）"]
     EC["EC バックエンド<br/>注文・在庫・決済"]
     CM["Cloud Monitoring"]
@@ -60,6 +64,7 @@ flowchart LR
   REM["AI 実修正 → draft PR<br/>(テストゲート・人間承認)"]
 
   PR & PLAN & SCH --> FC --> UI
+  FC --> PRC
   EC & CM & CI --> ING --> CLS
   CLS -->|未知のみ| ADK --> UI
   CLS --> UI --> FB -->|既知化| CLS

diff --git a/docs/decisions/ADR.md b/docs/decisions/ADR.md
@@ -19,7 +19,7 @@
 | [ADR-11](#adr-11-cloud-monitoring-webhook-直結cloud-function-を挟まない) | webhook 直結・Function 中継なし | インフラ |
 | [ADR-12](#adr-12-valkey-を-sot-にしない) | Valkey は SoT にしない | インフラ |
 | [ADR-13](#adr-13-ssr-不採用tanstack-query-は-infrastructure-層に隔離) | SSR 不採用・TanStack 隔離 | フロント |
-| [ADR-14](#adr-14-リアルタイム反映は-sse-push--pull-on-demand-の1軸で割る) | SSE push / pull の1軸 | フロント |
+| [ADR-14](#adr-14-リアルタイム反映はsse-push--pull-on-demandの1軸で割る) | SSE push / pull の1軸 | フロント |
 | [ADR-15](#adr-15-iac-は-wif-キーレスmodules単一-prod-envgcs-remote-state) | IaC: WIF キーレス | インフラ |
 | [ADR-16](#adr-16-予測は統計-ml-でなく-llm-推論引用検証) | 予測は LLM 推論＋引用検証 | 予兆 |
 | [ADR-17](#adr-17-join-は-llm-委譲人間は3点の足場に限定) | join は LLM 委譲＋3点足場 | 予兆 |
@@ -31,7 +31,7 @@
 | [ADR-23](#adr-23-cloud-trace-api-の有効化を意図的見送り) | Cloud Trace API 見送り | インフラ |
 | [ADR-24](#adr-24-デモシナリオの撤退在庫競合旧56) | デモシナリオの撤退記録 | デモ |
 | [ADR-25](#adr-25-investigationreport-は順応者acl-を挟まない) | モジュール境界: ACL を挟まない | モデル |
-| [ADR-26](#adr-26-空応答fallbackは思考予算を落とした縮退リトライ1回で防御) | 空応答 fallback: 縮退リトライ1回 | AI |
+| [ADR-26](#adr-26-空応答-fallback-は思考予算を落とした縮退リトライ1回で防御) | 空応答 fallback: 縮退リトライ1回 | AI |
 | [ADR-27](#adr-27-ai-精度は正診率でなく誤診の検出可能性で設計する定量評価は未実施) | 精度は正診率でなく誤診の検出可能性 | AI |
 | [ADR-28](#adr-28-予報は追記型で永続化する最新1件のオンメモリ保持をやめる) | 予報は追記型で永続化・リセットは soft discard | 予兆 |
 | [ADR-29](#adr-29-判定は上書きの状態と追記の事実に分ける正答率の母数は履歴から数える) | 判定＝状態と事実に分離・母数は履歴から | 学習 |
@@ -39,7 +39,7 @@
 | [ADR-31](#adr-31-予報の測定は率ではなく落とした件数で出し導けるものは保存しない) | 予報の測定＝破棄の件数・導けるものは保存しない | 予兆 |
 | [ADR-32](#adr-32-予報に確信度は表示しない較正できない自己申告を決定論で出せている軸に重ねない) | 予報の確信度%は表示しない | 予兆 |
 | [ADR-33](#adr-33-予報は-pr-コメントで届けるgate-にはせず該当は引用一致を第一根拠にする) | 予報を PR コメントで提示・gate にしない | 予兆 |
-| [ADR-34](#adr-34-予報カードは決裁の読み順に並べ替えるいつまでに動くかを軸で出す) | 予報カードは決裁の読み順・時間軸を出す | フロント |
+| [ADR-34](#adr-34-予報カードは決裁の読み順に並べ替えいつまでに動くかを軸で出す) | 予報カードは決裁の読み順・時間軸を出す | フロント |
 
 ---
 

diff --git a/docs/steps/README.md b/docs/steps/README.md
@@ -24,4 +24,8 @@
 - **デモ操作卓は 5 ボタン**（1/2/3/3b/4）。旧「在庫競合」廃止で -1 繰り上げ済み・旧5/6 は撤退済み。「8 ボタン」等の古い記述は無効（現行一覧は [architecture.md §9](../architecture.md#9-デモシナリオ5ボタンリアルさバッジ付き)）。
 - **承認済みアラートは dedup 窓から除外**され、Analytics ページに承認済み一覧がある（2026-07 追加）。承認→昇格→再発1秒既知→却下→再調査の一生と、訂正が次回 SIMILARITY 分類の正になる学習一周は `e2e/backoffice/feedback-lifecycle.e2e.test.ts` が担保。
 - **予兆（Forecast）は実装済み**（`GET/POST/DELETE /forecast`・引用検証・E2E あり）。「未実装・stretch」と読める古い記述は無効（現状は [architecture.md §10](../architecture.md#10-予兆ブリーフィングforecast実装済み)）。
-- **テスト実測は 2026-07-10 時点で unit 1,103件/155ファイル＋ HTTP API E2E 22件/7ファイル**。step 系に散在する古い件数はその時点のスナップショット。
+- **予報は Mongo へ追記型で永続化**（`risk_forecasts`・`DELETE /forecast` は soft discard）。「最新1件をオンメモリ保持」と読める古い記述は無効（[ADR-28](../decisions/ADR.md)）。
+- **判定は「状態」と「履歴」に分かれた**（`Alert.reviewHistory` が追記のみ・正答率の母数は履歴側）。「却下→再調査で母数から消える」前提の記述は無効（[ADR-29](../decisions/ADR.md)）。
+- **測定が入った**（2026-08）: 診断側の引用照合率（`GET /analytics` の `citationCoverage`＝引用単位）と、予報側の**破棄件数**（`forecastMeasurement`）。予報の確信度%は UI から撤去済み（[ADR-30](../decisions/ADR.md)〜[ADR-32](../decisions/ADR.md)）。
+- **予報は PR コメントとしても出る**（`forecast-pr-comment.yml`＋`src/apps/ci/forecast-pr-comment/`）。「予報は画面でしか見られない（pull 型）」と読める古い記述は無効。**gate ではない**（[ADR-33](../decisions/ADR.md)）。予報カードの構成も「決裁の読み順＋時間軸」へ組み替え済み（[ADR-34](../decisions/ADR.md)・旧「window を主見出し／タイムチャート不採用」は撤回）。
+- **テスト実測は 2026-08-17 時点で unit 1,298件/178ファイル＋ HTTP API E2E 22件/7ファイル**（docker 必須の結合 `*.int.test.ts` 11ファイルは別ラン）。step 系に散在する古い件数はその時点のスナップショット。
